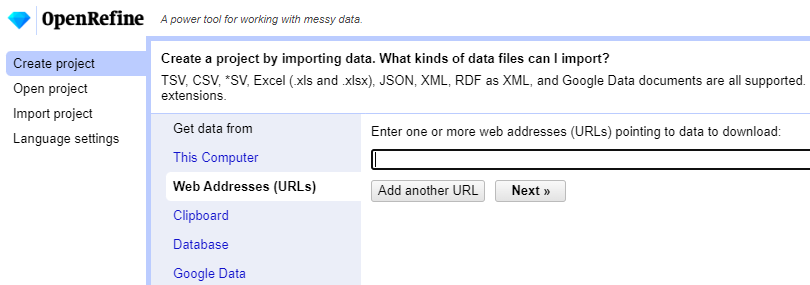
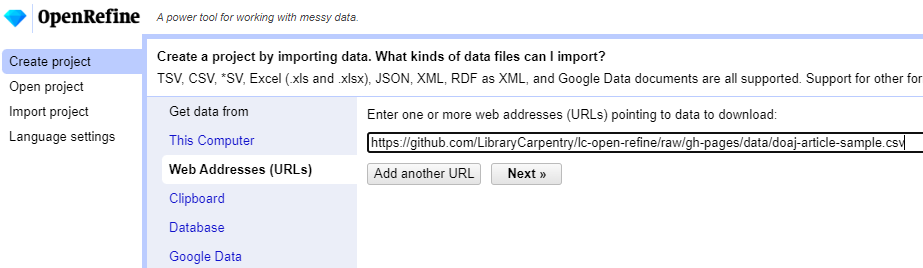
finish facetsandclusters.md

Changed region(s): [[0.0, 0.1194, 1.0, 1.0], [0.0, 0.0299, 0.463, 0.1194], [0.0, 0.3881, 0.1235, 0.4478]]

diff --git a/_workshop/3-getting-started.md b/_workshop/3-getting-started.md
@@ -17,7 +17,6 @@ OpenRefine accepts data in a variety of formats including:
 
 #### How can I move my data into OpenRefine?
 
-![Import screen](assets/images/Import.png)
 There are a number of ways to get data into Refine:
 * select a file in a local directory or that you have downloaded
 * by url if a dataset is hosted on the web (this is the method we wil use)
@@ -32,6 +31,8 @@ Once OpenRefine is launched in your browser:
 * Select `Web Addresses (URLs)`
 * Enter `https://github.com/LibraryCarpentry/lc-open-refine/raw/gh-pages/data/doaj-article-sample.csv` in the text box
 * Click `Next >>`
+
+![Import screen](assets/images/import.png)
 
 OpenRefine should give you a preview of how it will parse your dataset and gives various options to ensure the data is imported into OpenRefine correctly. 
 
@@ -50,12 +51,12 @@ Once you are happy click the `Create Project >>` button at the top right of the 
 * Look at the other options on the Import screen - try changing some of these options and see how that changes the Preview and how the data appears after import.
 * Do you have access to JSON or XML data? If so the first stage of the import process will prompt you to select a `record path` i.e. the parts of the file that will form the data rows in the OpenRefine project.
 
-----------------------------
+## Layout of OpenRefine
 
-### Layout of OpenRefine
 OpenRefine displays data in a _tabular_ format. Each row will usually represent a _record_ in the data, while each column represents a type or field of information. This is similar to how you might view data in a spreadsheet or a database. As with a spreadsheet, the individual bits of data live in _cells_ at the intersection of a row and a column.
 
-### Working with data
+#### Working with data
+
 * OpenRefine displays a limited number of rows at one time. You can adjust this (from 5 rows up to 1000) at the top left of the table.
 
 * In OpenRefine we will not generally work with our data record by record; instead we’ll find ways to group or filter it into batches and then work within those batches.
@@ -63,16 +64,20 @@ OpenRefine displays data in a _tabular_ format. Each row will usually represent 
 * We will mostly use the drop down menus at the top of each column to carry out operations. Click on the small downward arrow to bring up a menu of options for that column. When you select an option in a column (e.g. to make a change to the data), it will affect all the cells in that column. If you want to make changes across several columns, you do this one column at a time.
 
 ### Moving Columns
+
 If you didn’t have the correct column as the first column you could fix this in OpenRefine by
-* `Title > Edit column > Move column to beginning`
+> * `Title > Edit column > Move column to beginning`
 If you are reordering columns like this at the start an easier way to do it is use the `All` menu on the left hand side of the table:
-* `All > Edit Columns > Reorder / Remove Columns`
+> * `All > Edit Columns > Reorder / Remove Columns`
 This is also a handy way to remove multiple columns if your raw dataset has lots of data not relevant for you.
 
 ### Rows and Records
+
 OpenRefine has two modes of viewing data: _Rows_ and _Records_. It defaults to _Rows_ mode.
+
 * A row is a single line of your project.
 * A record is a combination of one or multiple rows indentifying a unique object and sharing the same first column
+
 At the moment the rows and records numbers are the same. To show how this can be different we'll look for cells which have multiple values and split it across multiple rows.
 * The `author` column is showing lots of cells with more than one author.
 * Click on `edit` for closer look at what is in that column. Notice the separator is a | or 'pipe' character.
@@ -90,16 +95,14 @@ So that is some initial reorganising. Next we’ll look at refining functions - 
 
 ## 💡 Key Points
 
-✅ Use the Create Project option to import data
+✅ Use the `Create Project` option to import data
 
-✅ You can control how data imports using options on the import screen
+✅ Specify how data imports using oarsing options
 
-✅ Several files types may be imported into OpenRefine.
+✅ OpenRefine displays data in rows and columns. Records can link multiple rows to a single record.
 
-✅ OpenRefine uses rows and columns to display data. Records mode links multiple rows to a single record.
+✅ Most work in OpenRefine is performed via drop-downs at the top of each column
 
-✅ Most work in OpenRefine is performed via a drop down at the top of each column
-
-✅ Split and join multi-valued cells to modify the individual values within them.
+✅ Split and join multi-valued cells to view or modfiy individual values
 
 ✅ When creating multi-valued cells in your data, choose your separator carefully
